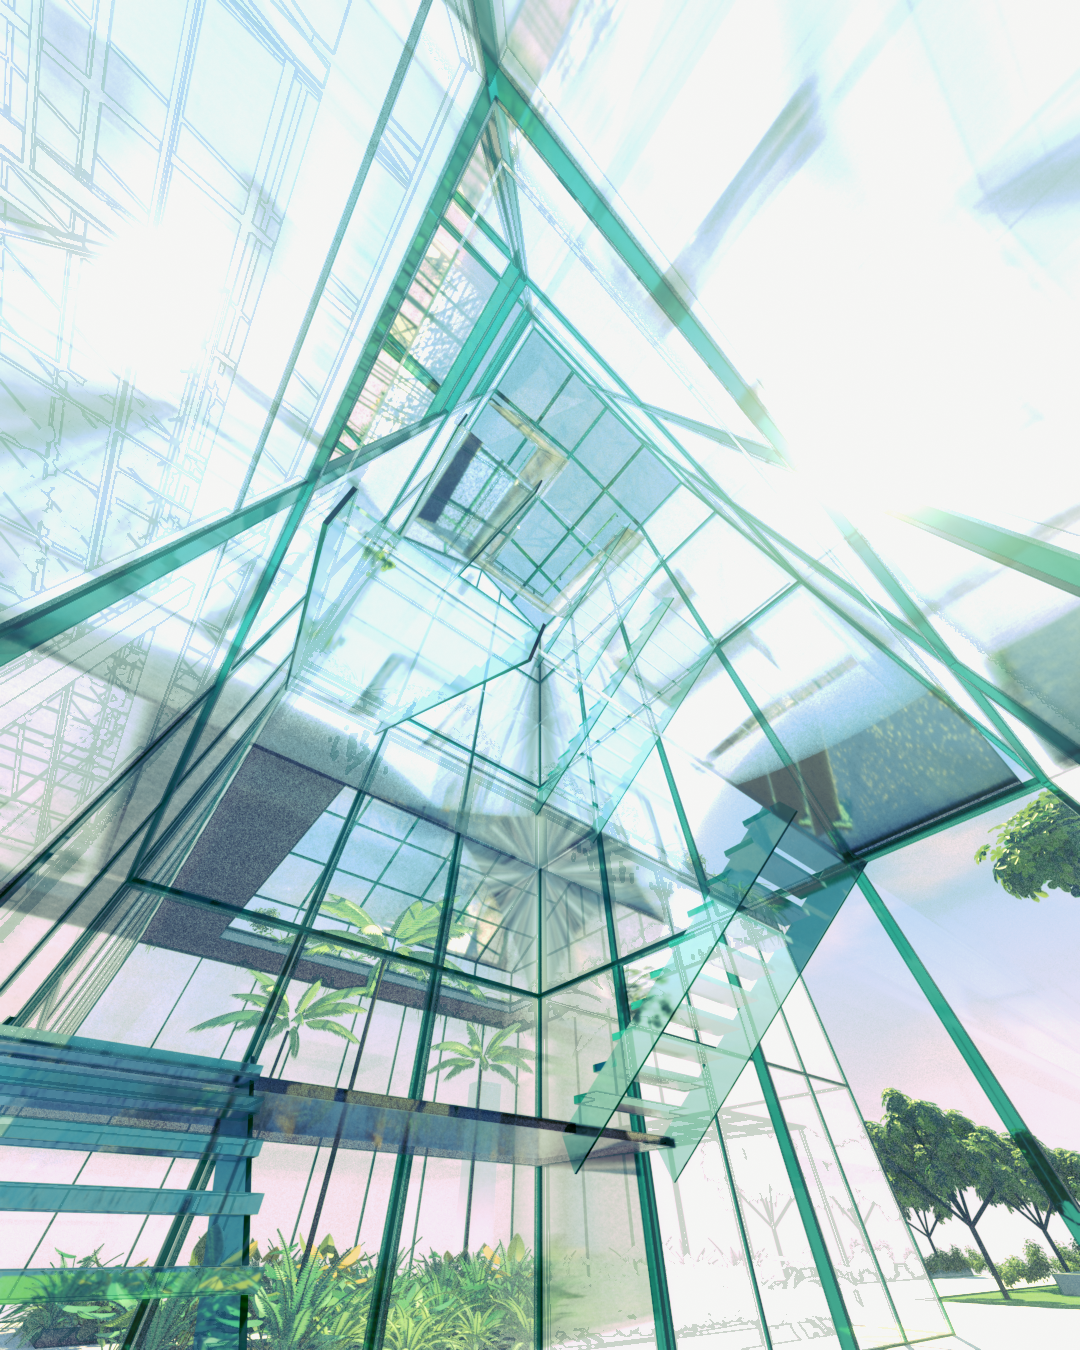
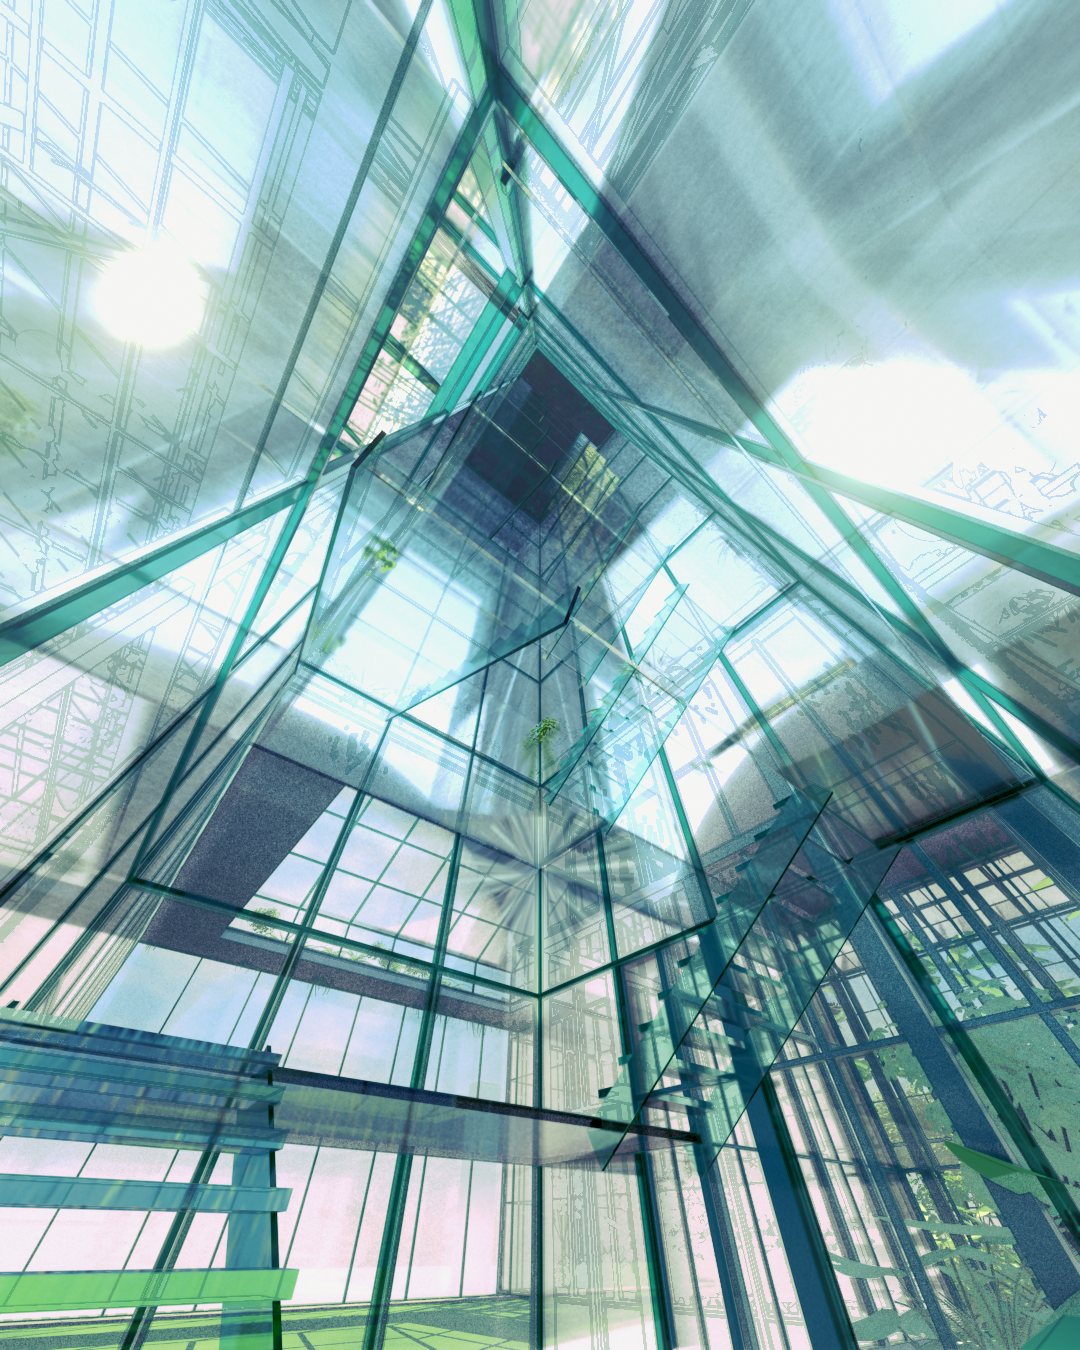
温室：照设定图重建后的全分辨率重渲（原画机位与二十四个机位）

diff --git a/Other/Greenhouse/Scenes/GlassAtrium/README.md b/Other/Greenhouse/Scenes/GlassAtrium/README.md
@@ -246,12 +246,12 @@ blender -b -P Other/Greenhouse/Scenes/GlassAtrium/calibration/layout_search.py -
 |------|----|
 | 结构线对齐（玻璃框架与楼梯的轮廓，逐像素到原画边缘的距离） | 中位数 2.2 px；2 px 内 47.0%，4 px 内 65.0%，8 px 内 86.3% |
 | 逐像素平均绝对误差（sRGB 0–1） | 0.190 |
-| 色调误差（1/60 画宽高斯模糊后，只看颜色与明暗分布） | 0.090 |
+| 色调误差（1/60 画宽高斯模糊后，只看颜色与明暗分布） | 0.091 |
 | 分带分位数误差（五条横带各自从暗部到高光的 CIELAB 分布） | 0.044 |
-| 植物的亮度分布（L 的 10/25/50/75/90% 分位，四分之一尺寸） | 28/39/49/62/79，原画 27/37/52/72/85；L > 70 的向阳叶 19%，原画 27% |
-| 模糊后色差 ΔE*ab | 中位数 13.0，90% 分位 24.9 |
-| 标定历程（色调误差） | 初版 0.178 → 远景烟霭 0.122 → 灯光反解 0.114 → 玻璃对漫射光透明、日光组、分带色阶 0.109 → 种植图先验土面、屋顶藤蔓日影、烟霭粉色环境光、散尾葵背向机位、方瓶内腔修正 0.088 → 金黄阳光、城市地面铺到 6 km、薄玻璃反弹上限、吊球石床 0.086 → 布局搜索（种子、挪动、朝向、尺寸、日向）、墨线按画面线宽、方瓶穹顶肩、封闭踏步，玻璃改为数据行（翡翠玻璃框架、晶质器皿色散、不镀膜反射）、按目标选强度的调色 0.080 → 器皿反射探针、厚壁瓶绿方瓶、烟霭只作背景、向阳叶逐株拟合色相、暖日光 0.084 → 整座温室（山顶公园、各翼与楼梯塔），改用 EEVEE：锁定 Cycles 的标定，天光穿过烟霭照进来，玻璃按几何分平板与折射体，盒形投影的房间探针，引擎转换对齐认可的成图 0.090 |
-| 与认可的 Cycles 成图（`Reference/Anchors/Nitia.png`）对齐 | 模糊误差 0.069，分带 0.038，CIELAB 均值偏差 L* −0.5、a* −0.9、b* −0.3 |
+| 植物的亮度分布（L 的 10/25/50/75/90% 分位，四分之一尺寸） | 27/40/49/62/78，原画 27/37/52/72/85；L > 70 的向阳叶 18%，原画 27% |
+| 模糊后色差 ΔE*ab | 中位数 13.0，90% 分位 25.0 |
+| 标定历程（色调误差） | 初版 0.178 → 远景烟霭 0.122 → 灯光反解 0.114 → 玻璃对漫射光透明、日光组、分带色阶 0.109 → 种植图先验土面、屋顶藤蔓日影、烟霭粉色环境光、散尾葵背向机位、方瓶内腔修正 0.088 → 金黄阳光、城市地面铺到 6 km、薄玻璃反弹上限、吊球石床 0.086 → 布局搜索（种子、挪动、朝向、尺寸、日向）、墨线按画面线宽、方瓶穹顶肩、封闭踏步，玻璃改为数据行（翡翠玻璃框架、晶质器皿色散、不镀膜反射）、按目标选强度的调色 0.080 → 器皿反射探针、厚壁瓶绿方瓶、烟霭只作背景、向阳叶逐株拟合色相、暖日光 0.084 → 整座温室（山顶公园、各翼与楼梯塔），改用 EEVEE：锁定 Cycles 的标定，天光穿过烟霭照进来，玻璃按几何分平板与折射体，盒形投影的房间探针，引擎转换对齐认可的成图 0.090 → 照设定图重建整座温室（机位身后新的中央大厅映进栏板和吊球）0.091 |
+| 与认可的 Cycles 成图（`Reference/Anchors/Nitia.png`）对齐 | 模糊误差 0.069，分带 0.038，CIELAB 均值偏差 L* −0.6、a* −1.0、b* −0.2 |
 
 最后一步有意用色调误差换颜色：烟霭不再当环境光、向阳叶子换成原画的黄绿以后，画面的亮暗和色相分布贴近原画（分带误差
 0.051 → 0.044，植物里 L > 70 的向阳叶 22% → 26%，原画 27%），但这些更亮的黄叶、更深的阴影和原画的笔触不会逐片对齐，
@@ -275,8 +275,8 @@ blender -b -P Other/Greenhouse/Scenes/GlassAtrium/calibration/layout_search.py -
   展亭和玻璃顶棚架。中庭在大厅北端，后排围着它的是楼梯塔、蕨类庭、西北塔、西厅、东连廊和东厅。
   * **中央大厅**：26 × 44 m，檐口 17 m，35° 人字屋顶，从正门一直通到中庭。正立面三开间：四根主柱、山墙椽、檐口和四层
     横档用粗杆（`Front Hall Primary Frame`），开间里的竖梃和分格用细杆。正门占居中的三格，上面一道半圆扇形窗，门外一座
-    玻璃筒拱雨篷（体量 `vault`）。厅前半段挂十个巨型吊球（球径 2.8–4.4 m，从正面就看得见，挂在棕榈和大树的树冠之外），
-    棕榈贴两侧墙，大树在后半段；二层一道纵向玻璃廊桥，三层一道横向廊桥。
+    玻璃筒拱雨篷（体量 `vault`）。厅里挂十个巨型吊球（球径 2.8–4.4 m，七个在前半段、从正面就看得见，三个在后半段的树冠
+    上方，都挂在棕榈和大树的树冠之外），棕榈贴两侧墙和正面墙内，大树在后半段；二层一道纵向玻璃廊桥，三层一道横向廊桥。
   * **塔**：西塔 15.36 m、东塔 23.04 m，各有一部折返玻璃楼梯通到种植屋顶，屋顶中央一棵树。中庭东南角原有的楼梯塔加高到
     23.04 m，侧立面上那座露出之字形梯段的就是它（原画看不到它，影子落在机位以南）。
   * **两翼**：两层；中间 7.5 m 宽的通高中庭从首层直通屋顶，屋顶上罩一座玻璃采光亭（西翼是 28° 人字亭，东翼是高一些的
